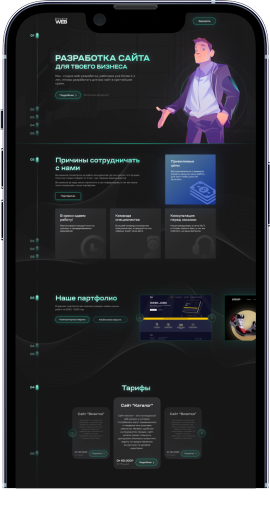
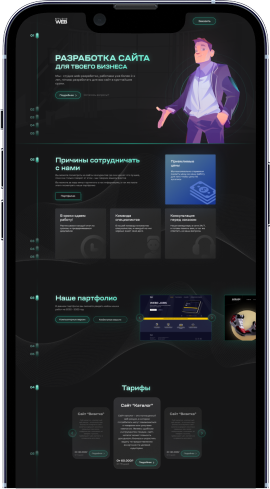
adding photo to the forms section

diff --git a/styles/style.css b/styles/style.css
@@ -694,7 +694,7 @@
   justify-content: center;
   align-items: center;
   gap: 2rem;
-  font-family: Arial, Helvetica, sans-serif;
+  font-family: "Ruberoid";
   position: relative;
   z-index: 1;
 }
@@ -709,7 +709,7 @@
 
 .form-title {
   font-size: 48px;
-  font-family: Arial, sans-serif;
+  font-family: "Ruberoid";
   font-style: normal;
   font-weight: bold;
   background: linear-gradient(to right, #B5FEEF, #2EECC5);
@@ -728,7 +728,7 @@
   align-items: center;
 }
 .form-forms p {
-  font-family: Arial, Helvetica, sans-serif;
+  font-family: "Ruberoid";
   font-style: medium;
   font-weight: 400;
   font-size: 22px;
@@ -774,6 +774,10 @@
   font-size: 19px;
 }
 
+.form-right {
+  padding: 0;
+  margin: 0;
+}
 .form-right img {
   width: auto;
   top: 1%;
@@ -1003,7 +1007,7 @@
   }
   .hero-section .hero-subtitle-mobile-text {
     display: flex !important;
-    font-family: Arial, sans-serif;
+    font-family: "Ruberoid";
     font-style: medium;
     font-weight: 400;
     font-size: 13px;
@@ -1013,7 +1017,7 @@
   }
   .hero-section .hero-btn {
     padding: 1rem 1rem;
-    font-family: Arial, sans-serif;
+    font-family: "Ruberoid";
     font-style: medium;
     font-weight: 400;
     font-size: 13px;
@@ -1191,10 +1195,12 @@
     flex-direction: column;
     width: 100%;
     height: auto;
+    background-color: rgba(46, 236, 197, 0.1019607843);
   }
   .form-section .form-left {
     gap: 0;
     width: 100%;
+    background: linear-gradient(to right, #313134, #222224, #12473C, #292929);
   }
   .form-section .form-title {
     width: 100%;
@@ -1227,12 +1233,21 @@
     padding: 0 2rem;
     font-size: 2rem;
   }
-  .form-section .form-group {
+  .form-section .form-right {
+    padding: 0;
+    margin: 0;
+    background: #161617;
+    width: 100%;
+    height: auto;
     display: flex;
     align-items: center;
+    justify-content: center;
   }
   .form-section .form-right img {
-    display: none;
+    display: block;
+    padding-top: 10px;
+    width: 254px;
+    height: 492px;
   }
   .footer {
     display: flex;

diff --git a/styles/_media.scss b/styles/_media.scss
@@ -1,3 +1,9 @@
+$color_1: #ffffff;
+$color_2: #00644F;
+$font-family_1: 'Ruberoid';
+$font-family_2: 'Ruberoid';
+$background-color_1: rgba(46, 236, 197, 0.1019607843);
+
 @media (max-width: 767px) {
   body {
     padding-top: 0;
@@ -413,10 +419,12 @@
     flex-direction: column;
     width: 100%;
     height: auto;
+    background-color: $background-color_1;
 
     .form-left{
       gap: 0;
       width: 100%;
+      background: linear-gradient(to right, #313134, #222224, #12473C, #292929);
     }
 
     .form-title {
@@ -457,14 +465,24 @@
       font-size: 2rem;
     }
 
-    .form-group {
+    .form-right {
+      padding: 0;
+      margin: 0;
+
+      background: #161617;
+      width: 100%;
+      height: auto;
+
       display: flex;
       align-items: center;
-    }
+      justify-content: center;
 
-    .form-right {
       img {
-        display: none;
+        display: block;
+        padding-top: 10px;
+
+        width: 254px;
+        height: 492px;
       }
     }
   }

diff --git a/styles/_form_section.scss b/styles/_form_section.scss
@@ -1,7 +1,7 @@
 $color_1: #ffffff;
 $color_2: #00644F;
-$font-family_1: Arial, Helvetica, sans-serif;
-$font-family_2: Arial, sans-serif;
+$font-family_1: 'Ruberoid';
+$font-family_2: 'Ruberoid';
 $background-color_1: rgba(46, 236, 197, 0.1019607843);
 
 .form-section {
@@ -87,6 +87,10 @@ $background-color_1: rgba(46, 236, 197, 0.1019607843);
 	font-size: 19px;
 }
 .form-right {
+	padding: 0;
+	margin: 0;
+
+
 	img {
 		width: auto;
 		top: 1%;
